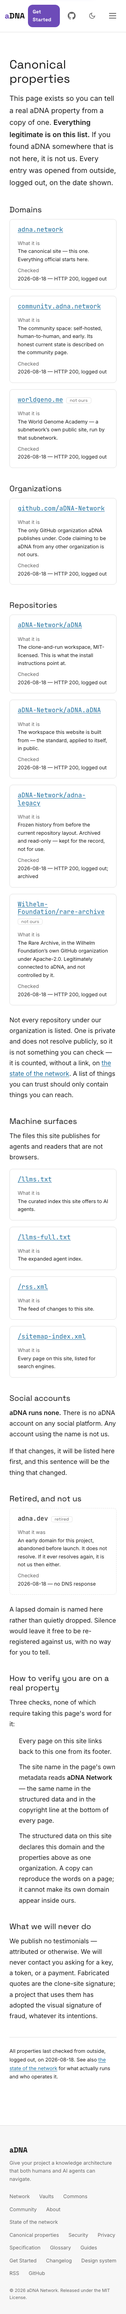
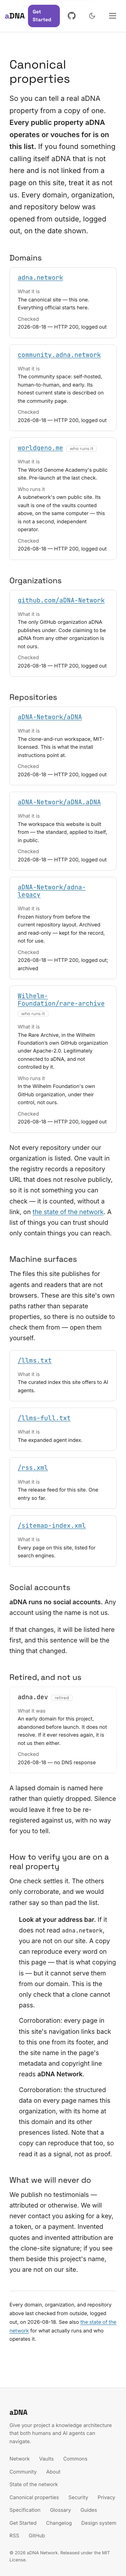
HAUSSMANN P1.2 O3: hostile-read + ranker remediation — the honesty pages made honest
Two independent reviewers (a hostile cold-reader and a 3-persona + 2-lens ranker) audited
the new surfaces. They converged on the same two S1 defects, which is the finding that
matters: a page whose whole argument is 'check everything we say' was shipping claims
that fail exactly when checked.

THE TWO BOTH REVIEWERS CAUGHT
1. The verification checklist verified nothing. All three checks were artifacts served by
   the very page you are trying to authenticate — a footer link, a metadata string, and
   the page's own structured data. A clone copies all three; that is what cloning IS. And
   check 3 was additionally FALSE: it claimed the structured data lists 'the properties
   above' when sameAs deliberately carries only two org-level identities (my own O2a
   narrowing made the sentence untrue and I did not re-read the prose against it).
   Rewritten around the one check a clone cannot pass — look at your address bar — with
   the other two demoted to corroboration and explicitly labelled as copyable.
2. 'Every entry was opened from outside, logged out, on the date shown' was false for 4
   of 13 entries: the machine surfaces render no Checked row, because there is no outside
   to check a same-origin path from. Scoped to domains/organizations/repositories.

OTHER FALSIFIABLE CLAIMS REMOVED
- 'src/data/vaults.json' — wrong path, no such file at repo root. On the page titled 'How
  to check this page', at the one step where the reader does work. Now full paths, each
[…]

diff --git a/site/src/data/canonical_properties.ts b/site/src/data/canonical_properties.ts
@@ -36,8 +36,19 @@ export interface CanonicalProperty {
   probed: string;
   /** How it was checked, in the reader's terms. */
   evidence?: string;
-  /** Set where the property is legitimately connected to aDNA but NOT controlled by it. */
-  notOurs?: boolean;
+  /**
+   * Excluded from `Organization.sameAs`: this URL is not an identity OF the aDNA Network
+   * organization. It does NOT mean an independent party operates it — see `ownerNote`.
+   */
+  sameAsExcluded?: boolean;
+  /**
+   * What is actually true about who runs this, in the reader's terms. Rendered instead of a
+   * generic badge: a "not ours" badge on worldgeno.me implied an independent operator, when that
+   * subnetwork's vault runs on the same single computer as everything else. Implying independence
+   * the network has not earned is the borrowed-trust move this campaign exists to delete, so the
+   * display now states the specific relationship rather than a binary.
+   */
+  ownerNote?: string;
 }
 
 /** The day the full property sweep was last run end-to-end. */
@@ -72,14 +83,17 @@ for (const [name, url] of Object.entries({
 /** Rows rendered under "what runs" and in `Organization.sameAs`. */
 export const RESOLVING_PROPERTIES = CANONICAL_PROPERTIES.filter((p) => p.resolves);
 
+/** Properties carrying an explicit ownership note — derived, so prose never types the number. */
+export const OWNER_NOTED_PROPERTIES = CANONICAL_PROPERTIES.filter((p) => p.ownerNote);
+
 /**
  * `Organization.sameAs` — the machine-readable half of the §7.1 defense.
  *
  * `sameAs` asserts IDENTITY: each URL is another web presence *of this same organization*. It is
  * emitted on every page, so it is deliberately much narrower than the page's own list:
  *
- *   - `notOurs` rows are excluded. worldgeno.me belongs to a subnetwork; rare-archive belongs to the
- *     Wilhelm Foundation. Claiming either as an aDNA Network identity would be exactly the
+ *   - `sameAsExcluded` rows are excluded. worldgeno.me belongs to a subnetwork; rare-archive belongs
+ *     to the Wilhelm Foundation. Claiming either as an aDNA Network identity would be exactly the
  *     borrowed-trust move this campaign exists to remove — and a false identity claim in structured
  *     data is worse than one in prose, because machines act on it without reading the caveat.
  *   - **individual repositories are excluded.** `github.com/aDNA-Network` is in the list, and every
@@ -95,7 +109,7 @@ export const RESOLVING_PROPERTIES = CANONICAL_PROPERTIES.filter((p) => p.resolve
 export const PUBLISHER_SAME_AS: string[] = CANONICAL_PROPERTIES.filter(
   (p) =>
     p.resolves &&
-    !p.notOurs &&
+    !p.sameAsExcluded &&
     p.kind !== 'repo' &&
     p.kind !== 'machine-surface' &&
     p.kind !== 'retired' &&
